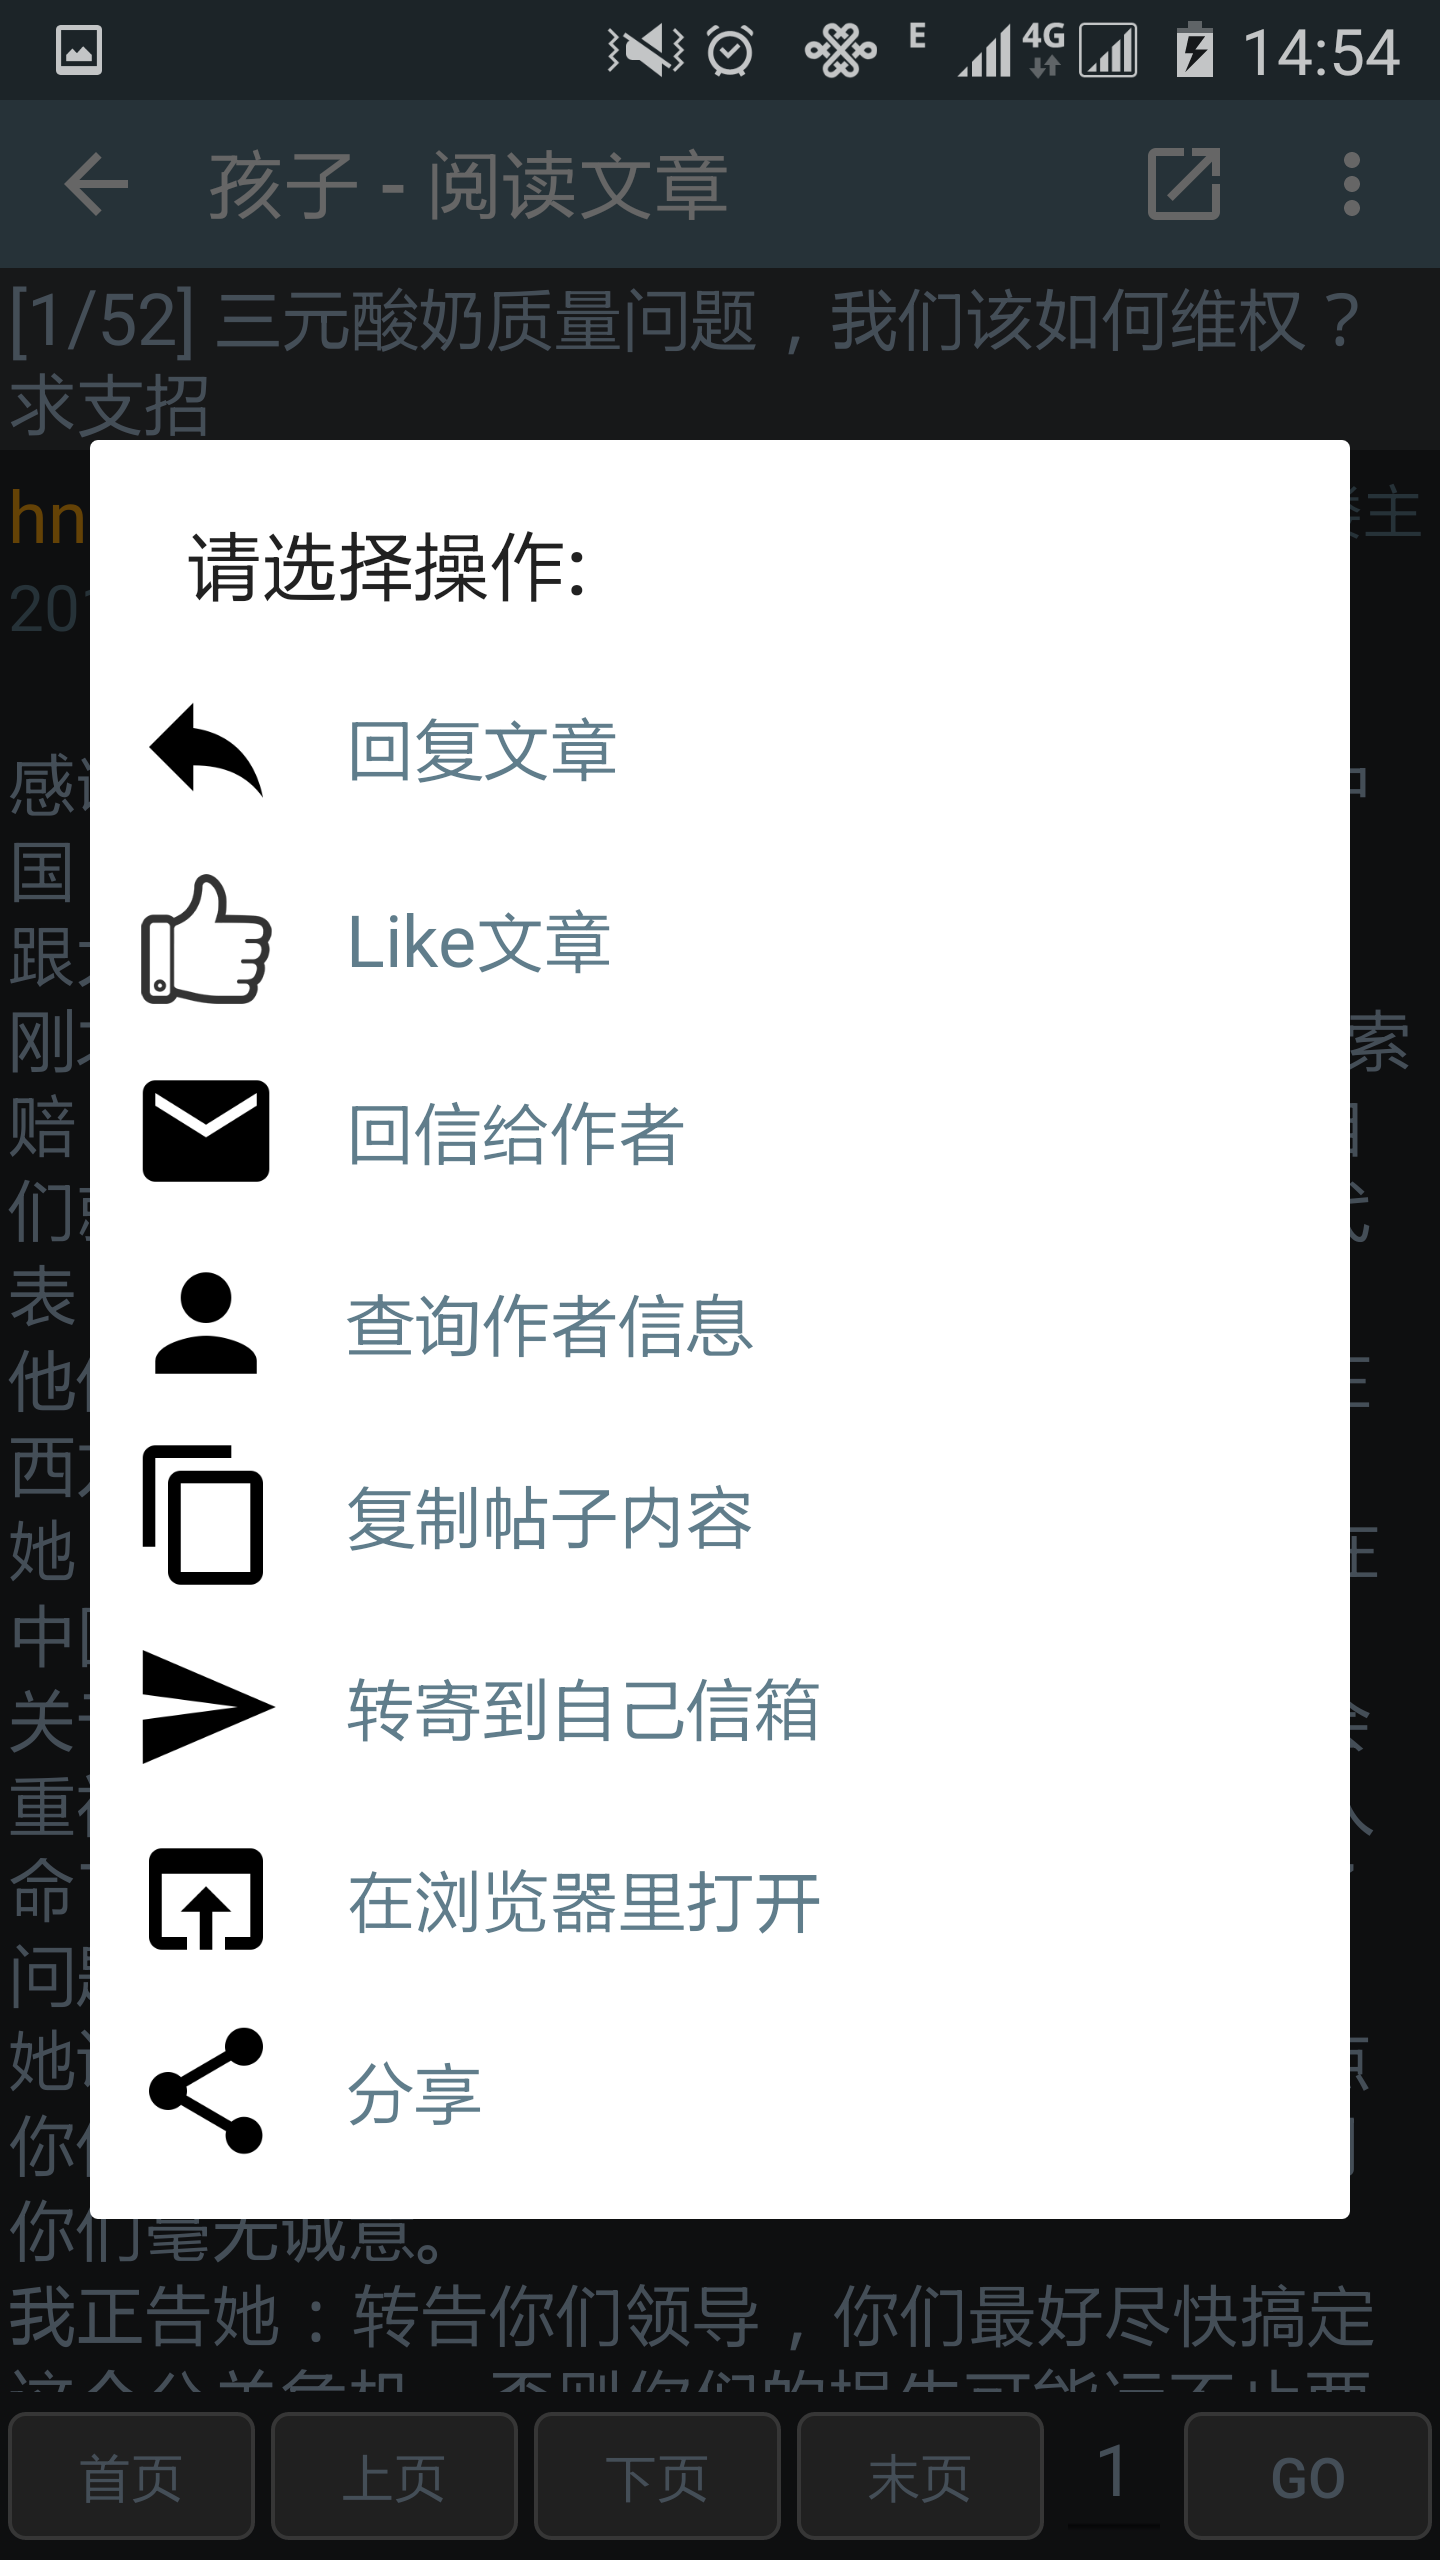
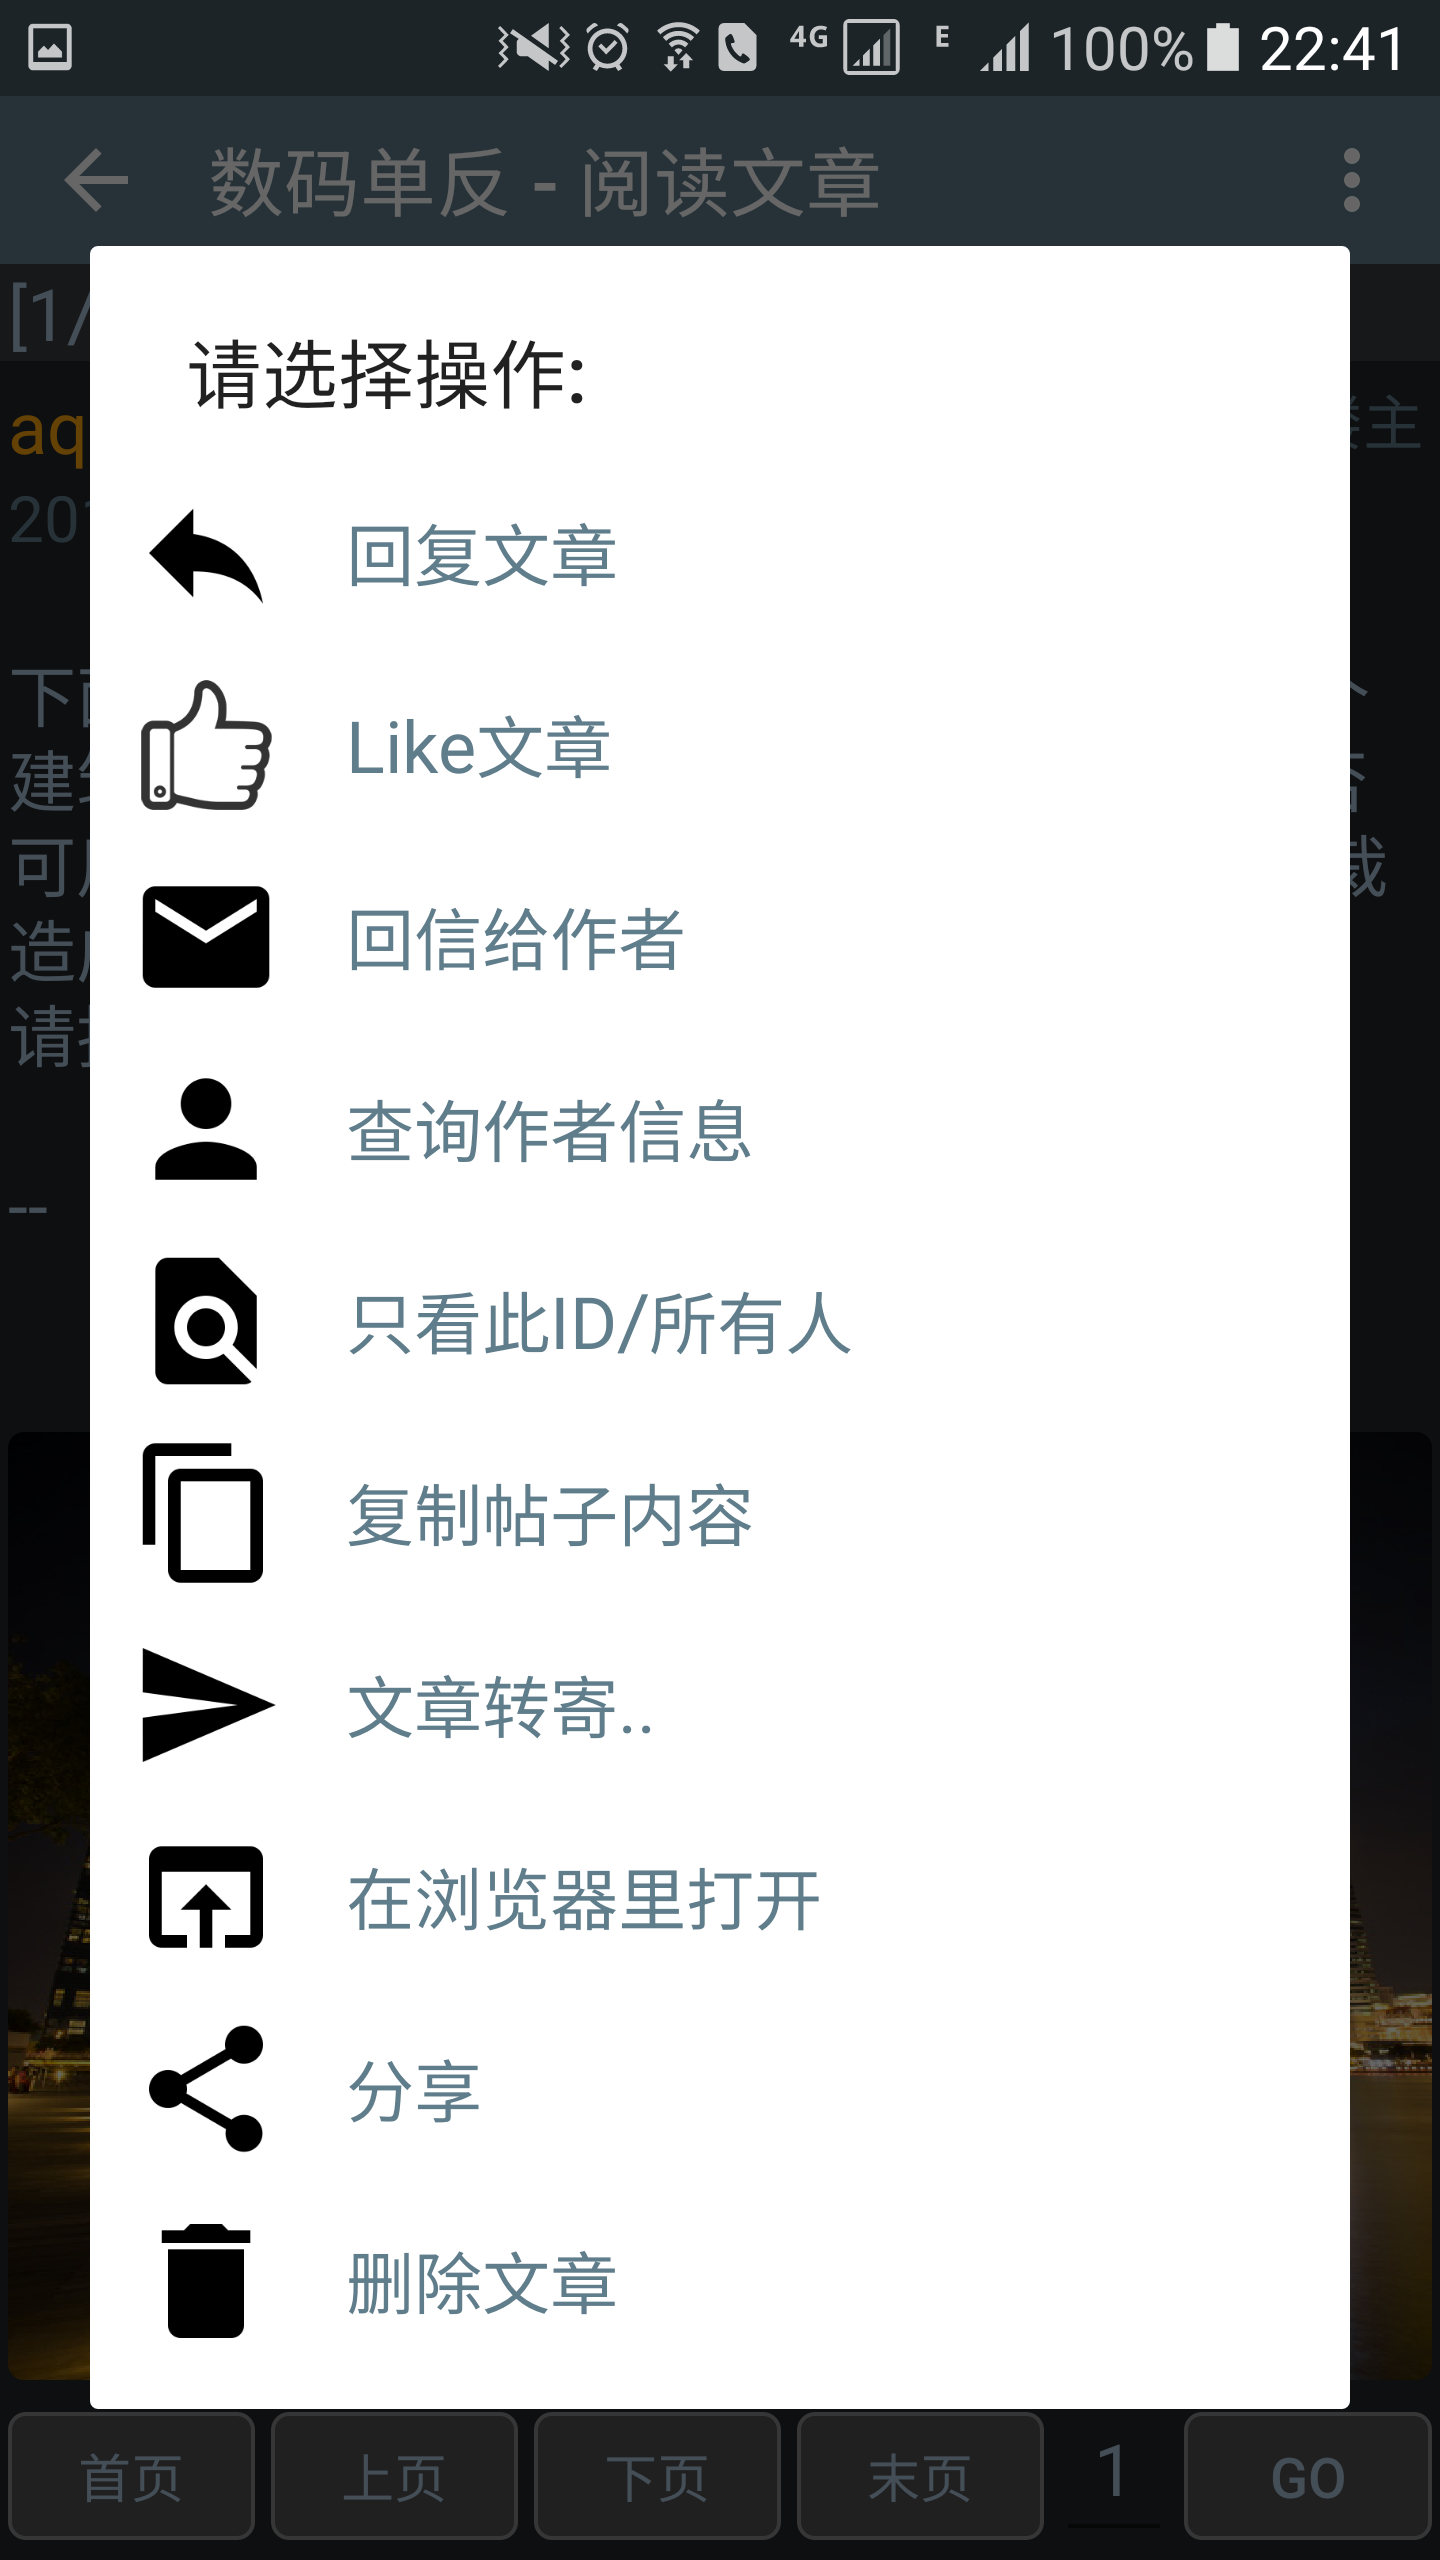
update

diff --git a/index.html b/index.html
@@ -29,31 +29,37 @@ zSMTH 水木社区客户端Android版.</h3>
 <a id="designer-templates" class="anchor" href="#designer-templates" aria-hidden="true"><span aria-hidden="true" class="octicon octicon-link"></span></a>屏幕截图</h3>
 
 <a href="images/guidance.png"><img src="images/guidance.png" style="max-width: 100px"></a>
+<a href="images/search.png"><img src="images/search.png" style="max-width: 100px"></a>
 <a href="images/post.png"><img src="images/post.png" style="max-width: 100px"></a>
 <a href="images/post_action.png"><img src="images/post_action.png" style="max-width: 100px"></a>
 <a href="images/post_like.png"><img src="images/post_like.png" style="max-width: 100px"></a>
-<a href="images/search.png"><img src="images/search.png" style="max-width: 100px"></a>
-<a href="images/compose.png"><img src="images/compose.png" style="max-width: 100px"></a>
+<a href="images/forward.png"><img src="images/forward.png" style="max-width: 100px"></a>
 <a href="images/exif.png"><img src="images/exif.png" style="max-width: 100px"></a>
+<a href="images/compose.png"><img src="images/compose.png" style="max-width: 100px"></a>
 <a href="images/query.png"><img src="images/query.png" style="max-width: 100px"></a>
+<a href="images/allboards.png"><img src="images/allboards.png" style="max-width: 100px"></a>
 <a href="images/share.png"><img src="images/share.png" style="max-width: 100px"></a>
 <a href="images/wechat.jpg"><img src="images/wechat.jpg" style="max-width: 100px"></a>
+<a href="images/setting.png"><img src="images/setting.png" style="max-width: 100px"></a>
 
+<p>注意：在帖子内容处，长按可以显示操作菜单。</p>
 <h3>
 <a id="creating-pages-manually" class="anchor" href="#creating-pages-manually" aria-hidden="true"><span aria-hidden="true" class="octicon octicon-link"></span></a>已实现的功能</h3>
 
 <ui>
-  <li>用户登录, 用户信息的查询, 用户头像的显示</li>
+  <li>用户登录, 用户信息的查询, 给用户发站内信，添加用户为好友</li>
   <li>十大导读/分区热贴的加载、下拉刷新、阅读</li>
-  <li>收藏夹的加载(本地缓存)、菜单刷新、增加(在版面主题列表处增加)和删除(长按删除)</li>
-  <li>所有版面列表的加载(本地缓存)、手工刷新、快速搜索</li>
+  <li>收藏夹的加载(本地缓存), 增加(在版面主题列表处增加)和删除(长按删除)</li>
+  <li>所有版面列表的加载(本地缓存)、手工刷新、快速搜索（支持中英文部分匹配*）</li>
   <li>版面主题列表，下拉刷新、上划加载更多主题</li>
   <li>版面操作：显示/隐藏置顶、文章搜索、收藏版面</li>
-  <li>文章内容的显示，支持图文混排(*)，下拉刷新、分页加载回复、长按帖子弹出操作菜单；</li>
+  <li>文章内容的显示，支持图文混排(*)，支持GIF动画(*), 长按帖子弹出操作菜单；</li>
   <li>显示文章的Like, 增加新的Like(*)</li>
+  <li>支持文章/合集转寄(*)</li>
+  <li>支持仅看某ID的文章(*)</li>
   <li>文章内容中超链接的自动识别，用浏览器打开</li>
   <li>文章中图片附件的全屏查看、缩放; 查看图片Exif信息(*)，保存图片到本地</li>
-  <li>回帖，发文，上载图片附件(一次最多选择9张图片)</li>
+  <li>发文/回帖，支持上载图片附件(一次最多选择9张图片)</li>
   <li>信件阅读和新信件提醒，信件回复</li>
   <li>分享帖子到SNS网络，包括微信好友、微信朋友圈、新浪微博等(*)</li>
 </ui>
